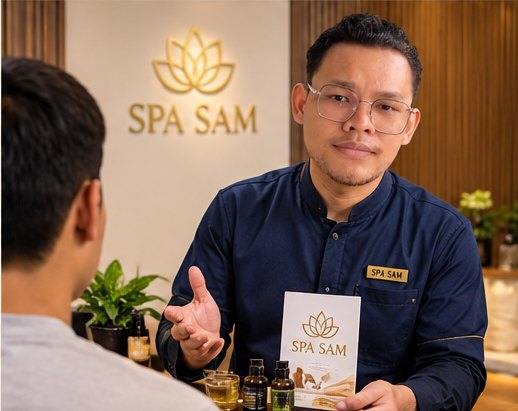
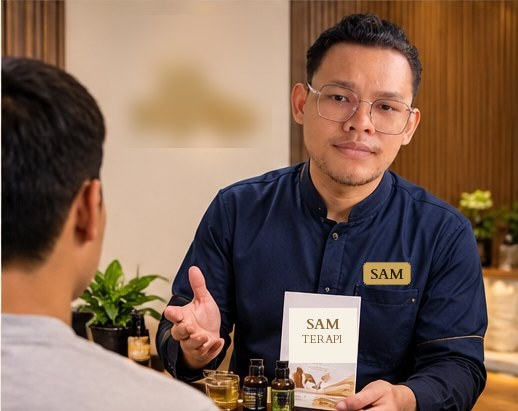
Rebrand Spa SAM to SAM Terapi / SAM Therapist; draggable gold chat button
- All site text, chat guide, testimonials, emails and guides now say
  SAM Terapi (BM) / SAM Therapist (EN).
- Photos: "SPA SAM" wall signs removed, name badges read "SAM",
  brochure and reception sign read "SAM TERAPI".
- Chat button: soft-gold background behind Sam's photo, can be dragged
  anywhere on screen (position remembered); a tap still opens the chat.

Claude-Session: https://claude.ai/code/session_01C2vH41zeFB8qLY6S95pEUk

Changed region(s): [[0.2471, 0.0584, 0.5251, 0.3796], [0.556, 0.7299, 0.7104, 0.9051], [0.6795, 0.6131, 0.8031, 0.7007]]

diff --git a/index.html b/index.html
@@ -330,16 +330,17 @@ footer nav a{color:var(--on-kayu);text-decoration:none;font-size:14px;padding:6p
 .statuspill{display:inline-block;border-radius:999px;padding:5px 11px;font-size:12px;font-weight:600;white-space:nowrap}
 .linkbtn{background:none;border:0;padding:6px 0;color:var(--on-kayu-m);font-size:14px;text-decoration:underline;text-underline-offset:3px;cursor:pointer;justify-self:start;min-height:44px;text-align:left}
 /* SAM chat guide */
-.sambubble{position:fixed;right:16px;bottom:96px;z-index:50;width:64px;height:64px;border-radius:50%;padding:0;border:3px solid var(--gold);background:var(--kayu);cursor:pointer;box-shadow:0 10px 26px rgba(20,12,6,.35);transition:transform .2s var(--ease)}
+.sambubble{position:fixed;right:16px;bottom:96px;z-index:50;width:66px;height:66px;border-radius:50%;padding:3px;border:2px solid var(--gold);background:radial-gradient(circle at 50% 35%,#F4E2B0,#DEBC7A);cursor:grab;box-shadow:0 10px 26px rgba(20,12,6,.35);transition:transform .2s var(--ease);touch-action:none;user-select:none;-webkit-user-select:none}
+.sambubble.dragging{cursor:grabbing;transition:none;transform:scale(1.08)}
 .sambubble:hover{transform:scale(1.06)}
 .sambubble img{width:100%;height:100%;border-radius:50%;object-fit:cover;display:block}
 .sambubble .on,.schead .on{position:absolute;right:1px;bottom:3px;width:14px;height:14px;border-radius:50%;background:#2ECC71;border:2px solid #fff}
 .schead .on{position:static;display:inline-block;width:8px;height:8px;border:0;margin-right:6px;vertical-align:middle}
-.samtip{position:fixed;right:90px;bottom:108px;z-index:50;background:#fff;color:var(--ink);border:1px solid var(--line);border-radius:16px 16px 4px 16px;padding:10px 8px 10px 14px;font-size:14px;font-weight:500;box-shadow:0 10px 26px rgba(20,12,6,.18);display:flex;align-items:center;gap:6px;max-width:220px}
+.samtip{position:fixed;right:92px;bottom:110px;z-index:50;background:#fff;color:var(--ink);border:1px solid var(--line);border-radius:16px 16px 4px 16px;padding:10px 8px 10px 14px;font-size:14px;font-weight:500;box-shadow:0 10px 26px rgba(20,12,6,.18);display:flex;align-items:center;gap:6px;max-width:220px}
 .samtip button{border:0;background:none;font-size:20px;line-height:1;color:var(--muted);cursor:pointer;width:32px;height:32px}
 .samchat{position:fixed;left:10px;right:10px;bottom:10px;z-index:55;height:min(78dvh,640px);background:var(--cream);border-radius:22px;box-shadow:0 18px 50px rgba(20,12,6,.35);display:flex;flex-direction:column;overflow:hidden;border:1px solid var(--line)}
 .schead{display:flex;align-items:center;gap:12px;padding:12px 12px 12px 16px;background:var(--kayu);color:var(--on-kayu)}
-.schead img{width:44px;height:44px;border-radius:50%;object-fit:cover;border:2px solid var(--gold)}
+.schead img{width:44px;height:44px;border-radius:50%;object-fit:cover;border:2px solid var(--gold);background:#F4E2B0}
 .schead b{display:block;font-family:var(--serif);font-size:22px;letter-spacing:.12em;color:#fff;line-height:1.1}
 .schead small{font-size:12px;color:var(--on-kayu-m)}
 .scx{width:44px;height:44px;border-radius:50%;border:1px solid rgba(255,255,255,.25);background:transparent;color:#fff;display:grid;place-items:center;cursor:pointer}
@@ -627,7 +628,7 @@ footer nav a{color:var(--on-kayu);text-decoration:none;font-size:14px;padding:6p
         </a>
         <a class="soccard rv" id="fbCard" href="https://www.facebook.com/share/1KP1inG5e8/" target="_blank" rel="noopener">
           <span class="socic"><svg viewBox="0 0 24 24" width="24" height="24" aria-hidden="true"><g fill="none" stroke="currentColor" stroke-width="1.7" stroke-linecap="round"><circle cx="9" cy="8" r="3.5"/><path d="M2.5 20c.8-3.4 3.4-5 6.5-5s5.7 1.6 6.5 5"/><path d="M16 4.5a3.5 3.5 0 0 1 0 7M18 15c2 .6 3.2 2.2 3.5 5"/></g></svg></span>
-          <span class="soctxt"><small>Facebook</small><b>Spa SAM</b><span data-en="Updates, promos and reviews">Berita, promosi &amp; ulasan</span></span>
+          <span class="soctxt"><small>Facebook</small><b>SAM Terapi</b><span data-en="Updates, promos and reviews">Berita, promosi &amp; ulasan</span></span>
           <span class="socgo" data-en="Follow">Ikuti</span>
         </a>
       </div>
@@ -637,7 +638,7 @@ footer nav a{color:var(--on-kayu);text-decoration:none;font-size:14px;padding:6p
       </a>
       <div class="feeds" id="feeds" hidden>
         <div class="feed" id="tkFeed" aria-label="TikTok @urutkt"></div>
-        <div class="feed" id="fbFeed" aria-label="Facebook Spa SAM"></div>
+        <div class="feed" id="fbFeed" aria-label="Facebook SAM Terapi"></div>
       </div>
     </div>
   </section>
@@ -646,8 +647,8 @@ footer nav a{color:var(--on-kayu);text-decoration:none;font-size:14px;padding:6p
   <section class="sec" id="kenali-sam" aria-labelledby="h-sam">
     <div class="wrap about">
       <figure class="photo rv" style="margin:0">
-        <img src="img/sam-reception.jpg" alt="Sam di kaunter penyambut tetamu Spa SAM, Syafiq Aura Massage" data-en-alt="Sam at the Spa SAM reception counter, Syafiq Aura Massage" width="795" height="896" loading="lazy">
-        <figcaption>Spa SAM · Chendering</figcaption>
+        <img src="img/sam-reception.jpg" alt="Sam di kaunter penyambut tetamu SAM Terapi, Syafiq Aura Massage" data-en-alt="Sam at the SAM Therapist reception counter, Syafiq Aura Massage" width="795" height="896" loading="lazy">
+        <figcaption>SAM Terapi · Chendering</figcaption>
       </figure>
       <div>
         <div class="orn"><svg><use href="#orn"/></svg></div>
@@ -786,7 +787,7 @@ footer nav a{color:var(--on-kayu);text-decoration:none;font-size:14px;padding:6p
 <div class="samchat" id="samChat" role="dialog" aria-modal="false" aria-labelledby="samChatTitle" hidden>
   <div class="schead">
     <img src="img/sam-avatar.jpg" alt="" width="44" height="44">
-    <div style="flex:1;min-width:0"><b id="samChatTitle">SAM</b><small><i class="on"></i><span data-en="Spa SAM guide · instant answers">Pembantu Spa SAM · jawapan segera</span></small></div>
+    <div style="flex:1;min-width:0"><b id="samChatTitle">SAM</b><small><i class="on"></i><span data-en="SAM Therapist guide · instant answers">Pembantu SAM Terapi · jawapan segera</span></small></div>
     <button type="button" class="scx" id="samClose" aria-label="Tutup chat"><svg width="18" height="18"><use href="#i-x"/></svg></button>
   </div>
   <div class="scbody" id="samBody" aria-live="polite"></div>
@@ -1302,7 +1303,7 @@ $("#sendBtn").addEventListener("click",function(e){
 /* ---------- testimonials (real ones only, from config.js) ---------- */
 function renderReviews(){
   var list=(CFG.testimonials||[]).filter(function(r){ return r&&r.text&&r.name; });
-  var wa=WA_LINK(t("Assalamualaikum Sam, ini ulasan saya untuk Spa SAM:\n\nServis: \nUlasan: \n\nSaya izinkan ulasan ini dipaparkan di laman web dengan nama: ","Hi Sam, here is my review of Spa SAM:\n\nService: \nReview: \n\nI allow this review to be shown on the website under the name: "));
+  var wa=WA_LINK(t("Assalamualaikum Sam, ini ulasan saya untuk SAM Terapi:\n\nServis: \nUlasan: \n\nSaya izinkan ulasan ini dipaparkan di laman web dengan nama: ","Hi Sam, here is my review of SAM Therapist:\n\nService: \nReview: \n\nI allow this review to be shown on the website under the name: "));
   var h;
   if(!list.length){
     h='<div class="rev-empty"><h3>'+t("Kongsi pengalaman anda","Share your experience")+'</h3><p>'+t("Pernah dirawat oleh Sam? Hantar ulasan ringkas di WhatsApp. Ulasan pelanggan sebenar akan dipaparkan di sini.","Been treated by Sam? Send a short review on WhatsApp. Real client reviews will appear here.")+'</p><a class="btn btn-wa" href="'+wa+'" target="_blank" rel="noopener"><svg><use href="#i-wa"/></svg><span>'+t("Tulis ulasan di WhatsApp","Write a review on WhatsApp")+'</span></a></div>';
@@ -1346,7 +1347,7 @@ renderReviews();
     prep:t("Persediaan sebelum sesi","Before your session"),human:t("Cakap dengan Sam","Talk to Sam"),menu:t("Menu utama","Main menu")}[k]; }
   function answer(k){
     if(k==="svc"){
-      return { text:t("Ini servis dan harga Spa SAM:","Here are Spa SAM's services and prices:")+"\n\n"+SVC.map(function(x){ return "• <b>"+esc(x[lang])+"</b> — "+x.min+" min · RM"+x.rm; }).join("\n")+
+      return { text:t("Ini servis dan harga SAM Terapi:","Here are SAM Therapist's services and prices:")+"\n\n"+SVC.map(function(x){ return "• <b>"+esc(x[lang])+"</b> — "+x.min+" min · RM"+x.rm; }).join("\n")+
         "\n\n"+t("Deposit RM10 (servis) / RM20 (pakej). Baki dibayar semasa sesi.","Deposit RM10 (single) / RM20 (package). Balance paid at the session."),
         acts: bookBtn()+'<a href="#servis" data-close>'+t("Lihat gambar servis","See service photos")+'</a>' };
     }
@@ -1378,7 +1379,7 @@ renderReviews();
         acts:waBtn(t("Assalamualaikum Sam, saya ingin tukar / batal tempahan saya. Nama: ","Hi Sam, I'd like to change / cancel my booking. Name: "),t("WhatsApp Sam","WhatsApp Sam"))+'<button type="button" data-manage>'+t("Tempahan saya","My booking")+'</button>' };
     }
     if(k==="men"){
-      return { text:t("Ya, Spa SAM <b>khas untuk pelanggan lelaki</b>. Semua sesi dijalankan seorang demi seorang oleh Sam, secara profesional dan berhemah.","Yes, Spa SAM is <b>for men only</b>. Every session is one-to-one with Sam, professional and discreet."), acts:bookBtn() };
+      return { text:t("Ya, SAM Terapi <b>khas untuk pelanggan lelaki</b>. Semua sesi dijalankan seorang demi seorang oleh Sam, secara profesional dan berhemah.","Yes, SAM Therapist is <b>for men only</b>. Every session is one-to-one with Sam, professional and discreet."), acts:bookBtn() };
     }
     if(k==="prep"){
       return { text:t("Sebelum sesi:\n\n• Makan ringan sekurang-kurangnya sejam sebelum\n• Maklumkan Sam tentang kecederaan atau keadaan kesihatan\n• Datang beberapa minit awal untuk berehat\n\nServis ini untuk relaksasi, bukan rawatan perubatan.","Before your session:\n\n• Eat lightly at least an hour before\n• Tell Sam about any injuries or health conditions\n• Arrive a few minutes early to settle in\n\nServices are for relaxation, not medical treatment."), acts:bookBtn() };
@@ -1410,13 +1411,26 @@ renderReviews();
   }
   function greet(){
     bodyEl.innerHTML="";
-    addMsg(t("Assalamualaikum! Saya <b>SAM</b>, pembantu Spa SAM.\nTekan soalan di bawah untuk jawapan segera.","Hi! I'm <b>SAM</b>, the Spa SAM guide.\nTap a question below for an instant answer."),"bot");
+    addMsg(t("Assalamualaikum! Saya <b>SAM</b>, pembantu SAM Terapi.\nTekan soalan di bawah untuk jawapan segera.","Hi! I'm <b>SAM</b>, the SAM Therapist guide.\nTap a question below for an instant answer."),"bot");
     showOpts(MENU);
   }
   function openChat(){ open=true; chat.hidden=false; bubble.setAttribute("aria-expanded","true"); tip.hidden=true; try{sessionStorage.setItem("sam-tip","1");}catch(e){}
     if(!bodyEl.children.length) greet(); setTimeout(function(){ var b=$("button",opts)||$("#samClose"); if(b) b.focus(); },60); }
   function closeChat(){ open=false; chat.hidden=true; bubble.setAttribute("aria-expanded","false"); bubble.focus(); }
-  bubble.addEventListener("click",function(){ open?closeChat():openChat(); });
+  // drag anywhere (left/right/up/down); a tap still opens the chat
+  var drag=null, moved=false;
+  function clamp(v,min,max){ return Math.max(min,Math.min(max,v)); }
+  function place(x,y){ var w=bubble.offsetWidth,h=bubble.offsetHeight; x=clamp(x,6,innerWidth-w-6); y=clamp(y,6,innerHeight-h-6);
+    bubble.style.left=x+"px"; bubble.style.top=y+"px"; bubble.style.right="auto"; bubble.style.bottom="auto"; return {x:x,y:y}; }
+  try{ var sp=JSON.parse(localStorage.getItem("sam-bubble")||"null"); if(sp) place(sp.x*innerWidth,sp.y*innerHeight); }catch(e){}
+  bubble.addEventListener("pointerdown",function(e){ var r=bubble.getBoundingClientRect(); drag={dx:e.clientX-r.left,dy:e.clientY-r.top,sx:e.clientX,sy:e.clientY}; moved=false; try{bubble.setPointerCapture(e.pointerId);}catch(x){} });
+  bubble.addEventListener("pointermove",function(e){ if(!drag) return; if(!moved&&Math.abs(e.clientX-drag.sx)+Math.abs(e.clientY-drag.sy)<8) return;
+    moved=true; bubble.classList.add("dragging"); tip.hidden=true; place(e.clientX-drag.dx,e.clientY-drag.dy); });
+  function endDrag(){ if(!drag) return; drag=null; bubble.classList.remove("dragging");
+    if(moved){ var r=bubble.getBoundingClientRect(); try{ localStorage.setItem("sam-bubble",JSON.stringify({x:r.left/innerWidth,y:r.top/innerHeight})); }catch(e){} } }
+  bubble.addEventListener("pointerup",endDrag); bubble.addEventListener("pointercancel",endDrag);
+  bubble.addEventListener("click",function(e){ if(moved){ e.preventDefault(); moved=false; return; } open?closeChat():openChat(); });
+  addEventListener("resize",function(){ if(bubble.style.left){ var r=bubble.getBoundingClientRect(); place(r.left,r.top); } });
   $("#samClose").addEventListener("click",closeChat);
   opts.addEventListener("click",function(e){ var b=e.target.closest("[data-q]"); if(!b) return; addMsg(esc(b.textContent),"me"); botSay(b.dataset.q); });
   bodyEl.addEventListener("click",function(e){
@@ -1475,7 +1489,7 @@ loadLive(); setInterval(loadLive,120000);
     if(/facebook\.com\/(?!share\/)/.test(fbPage)){
       var f=document.createElement("iframe");
       f.src="https://www.facebook.com/plugins/page.php?href="+encodeURIComponent(fbPage)+"&tabs=timeline&width=500&height=640&small_header=true&adapt_container_width=true&hide_cover=false&show_facepile=false";
-      f.title="Facebook Spa SAM"; f.loading="lazy"; f.setAttribute("allow","encrypted-media"); $("#fbFeed").appendChild(f);
+      f.title="Facebook SAM Terapi"; f.loading="lazy"; f.setAttribute("allow","encrypted-media"); $("#fbFeed").appendChild(f);
     } else { $("#fbFeed").remove(); feeds.style.gridTemplateColumns="1fr"; }
   }
   if("IntersectionObserver" in window){ var io2=new IntersectionObserver(function(es){ if(es.some(function(e){return e.isIntersecting;})){ start(); io2.disconnect(); } },{rootMargin:"400px 0px"}); io2.observe($("#sosial")); }

diff --git a/config.js b/config.js
@@ -1,4 +1,4 @@
-/* Spa SAM website settings */
+/* SAM Terapi website settings */
 window.SAM_CONFIG = {
   // Google Apps Script "Web app" URL (ends with /exec). Leave "" for WhatsApp-only mode.
   apiUrl: "",
@@ -16,9 +16,9 @@ window.SAM_CONFIG = {
   // REAL client reviews only, shared with the client's permission. Example format:
   // { name: "Ahmad", service: "Urutan Badan Penuh", rating: 5, date: "Nov 2026", text: "..." },
   testimonials: [
-    { name: "Pelanggan Spa SAM", source: "WhatsApp · dikongsi di TikTok @urutkt", image: "img/review-1.jpg",
+    { name: "Pelanggan SAM Terapi", source: "WhatsApp · dikongsi di TikTok @urutkt", image: "img/review-1.jpg",
       text: "Alhamdulillah.. tdo lena smlm. Kena point² urut. Bleh repeat lg lps ni." },
-    { name: "Pelanggan Spa SAM", source: "WhatsApp · dikongsi di TikTok @urutkt", image: "img/review-2.jpg",
+    { name: "Pelanggan SAM Terapi", source: "WhatsApp · dikongsi di TikTok @urutkt", image: "img/review-2.jpg",
       text: "Tekanan masa ngurut memang on point. Segor rasa tubuh bangun pagi ni. Terbaik bro. Boleh repeat lagi." }
   ]
 };

diff --git a/SETUP.md b/SETUP.md
@@ -1,4 +1,4 @@
-# Panduan setup automasi tempahan Spa SAM
+# Panduan setup automasi tempahan SAM Terapi
 
 Masa diperlukan: lebih kurang **15 minit**, sekali sahaja. Buat di **komputer / laptop** (lebih mudah daripada telefon).
 
@@ -40,7 +40,7 @@ Warna acara Calendar: **Kuning** = menunggu deposit · **Oren** = semak resit ·
 **B. Emel pelanggan keluar dari alamat Sam** (log masuk sebagai muhdyusry.abdullah@gmail.com):
 1. Gmail → ⚙ → **See all settings** → tab **Accounts and Import**.
 2. **Send mail as** → **Add another email address**.
-3. Name: `Spa SAM — Syafiq Aura Massage` · Email: `syafiqaurawellness@gmail.com` · biarkan "Treat as an alias" bertanda → **Next Step** → **Send Verification**.
+3. Name: `SAM Terapi — Syafiq Aura Massage` · Email: `syafiqaurawellness@gmail.com` · biarkan "Treat as an alias" bertanda → **Next Step** → **Send Verification**.
 4. Sam buka Gmail **syafiqaurawellness@gmail.com** → klik pautan pengesahan (atau salin kod dan masukkan).
 
 > Jika langkah B belum dibuat, sistem tetap hantar emel — dari muhdyusry.abdullah@gmail.com dengan "Reply-To" ke syafiqaurawellness@gmail.com.

diff --git a/README.md b/README.md
@@ -1,6 +1,6 @@
-# SPASAM — Syafiq Aura Massage
+# SPASAM — SAM Terapi (Syafiq Aura Massage)
 
-Website for **Spa SAM (Syafiq Aura Massage)**: traditional Malay massage, bekam and body scrub for men in Chendering, Kuala Terengganu.
+Website for **SAM Terapi (Syafiq Aura Massage)**: traditional Malay massage, bekam and body scrub for men in Chendering, Kuala Terengganu.
 
 **Live site:** https://yushabdullah.github.io/SPASAM/
 
